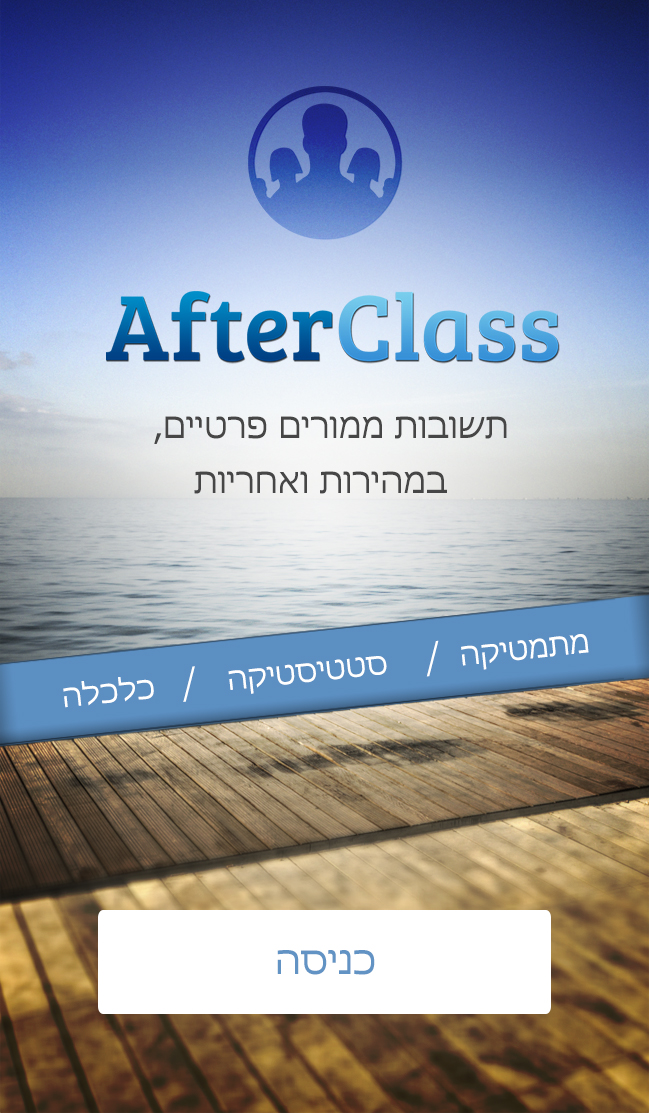
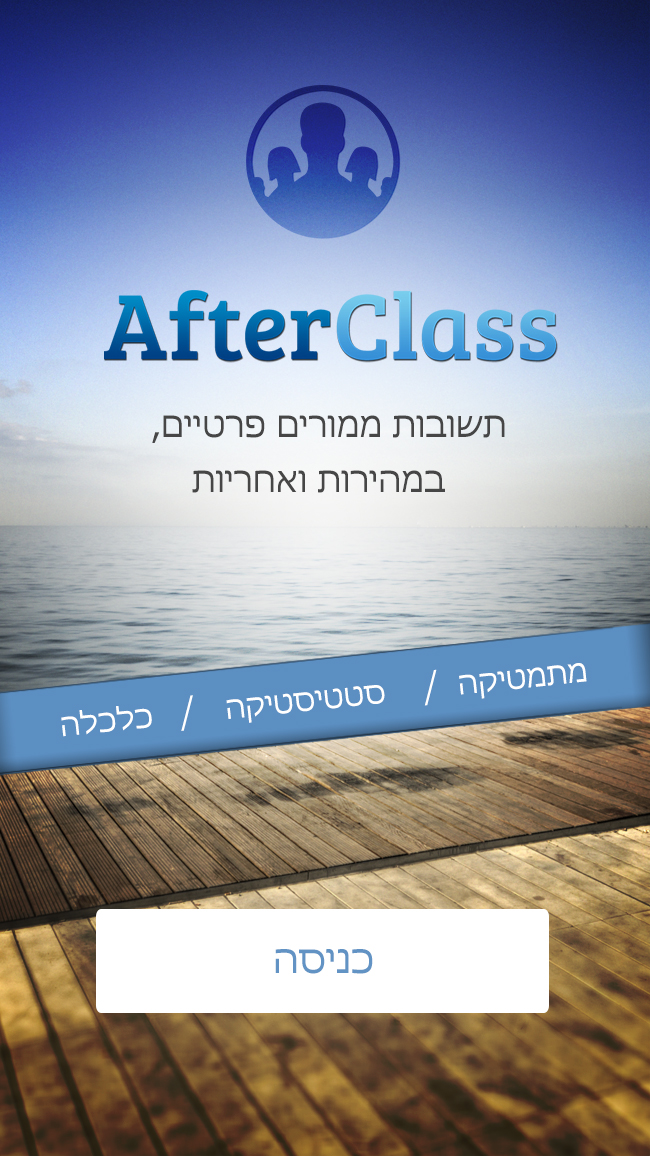
update splash & onboarding slides

diff --git a/www/css/style.css b/www/css/style.css
@@ -255,7 +255,7 @@ select {
 #login-page img,
 #on-boarding-page img {
   width: 100%;
-  max-height: 100%;
+  max-height: 101%;
   margin: 0 auto;
   display: block;
   top: -1px;

diff --git a/www/css/style.less b/www/css/style.less
@@ -196,7 +196,7 @@ select {
   }
   img {
     width: 100%;
-    max-height: 100%;
+    max-height: 101%;
     margin: 0 auto;
     display: block;
     top: -1px;
